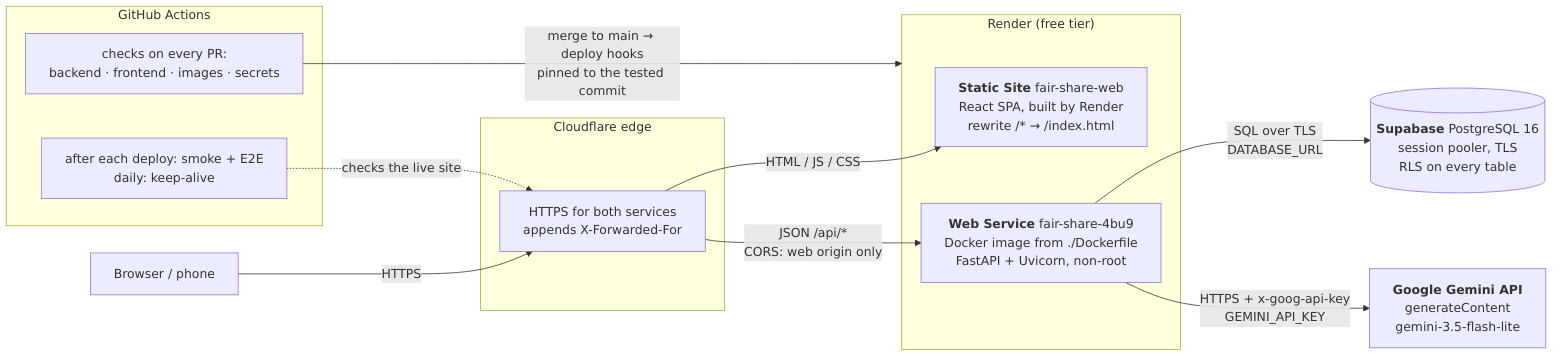
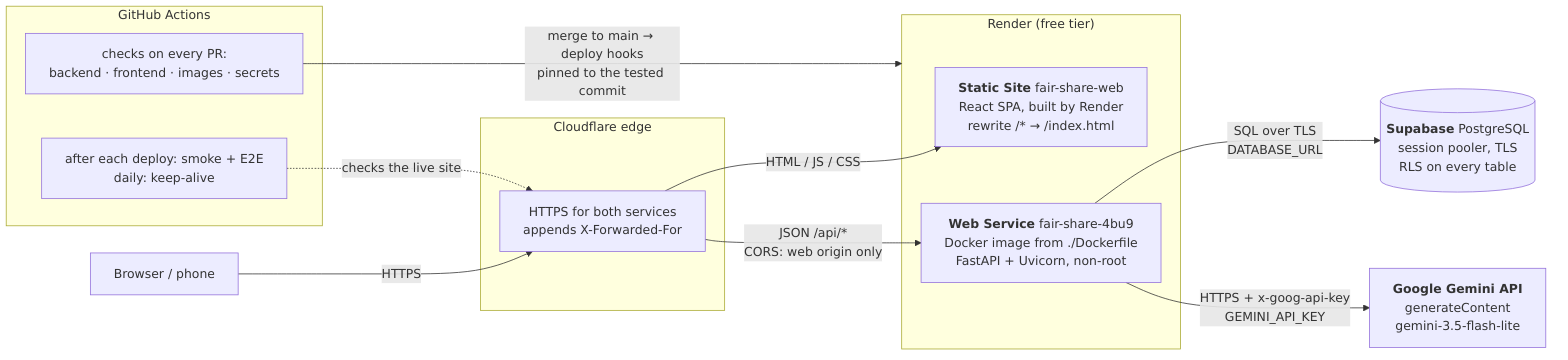
docs(diagrams): do not state a Supabase version we have not checked
Only the local Compose database is pinned (postgres:16-alpine); the
Supabase project's version was never checked, so the diagram no longer
claims one.

Refs #47

diff --git a/docs/ARCHITECTURE.md b/docs/ARCHITECTURE.md
@@ -26,7 +26,7 @@ flowchart LR
         API["<b>Web Service</b> fair-share-4bu9<br/>Docker image from ./Dockerfile<br/>FastAPI + Uvicorn, non-root"]
     end
 
-    DB[("<b>Supabase</b> PostgreSQL 16<br/>session pooler, TLS<br/>RLS on every table")]
+    DB[("<b>Supabase</b> PostgreSQL<br/>session pooler, TLS<br/>RLS on every table")]
     AI["<b>Google Gemini API</b><br/>generateContent<br/>gemini-3.5-flash-lite"]
 
     subgraph GH["GitHub Actions"]
